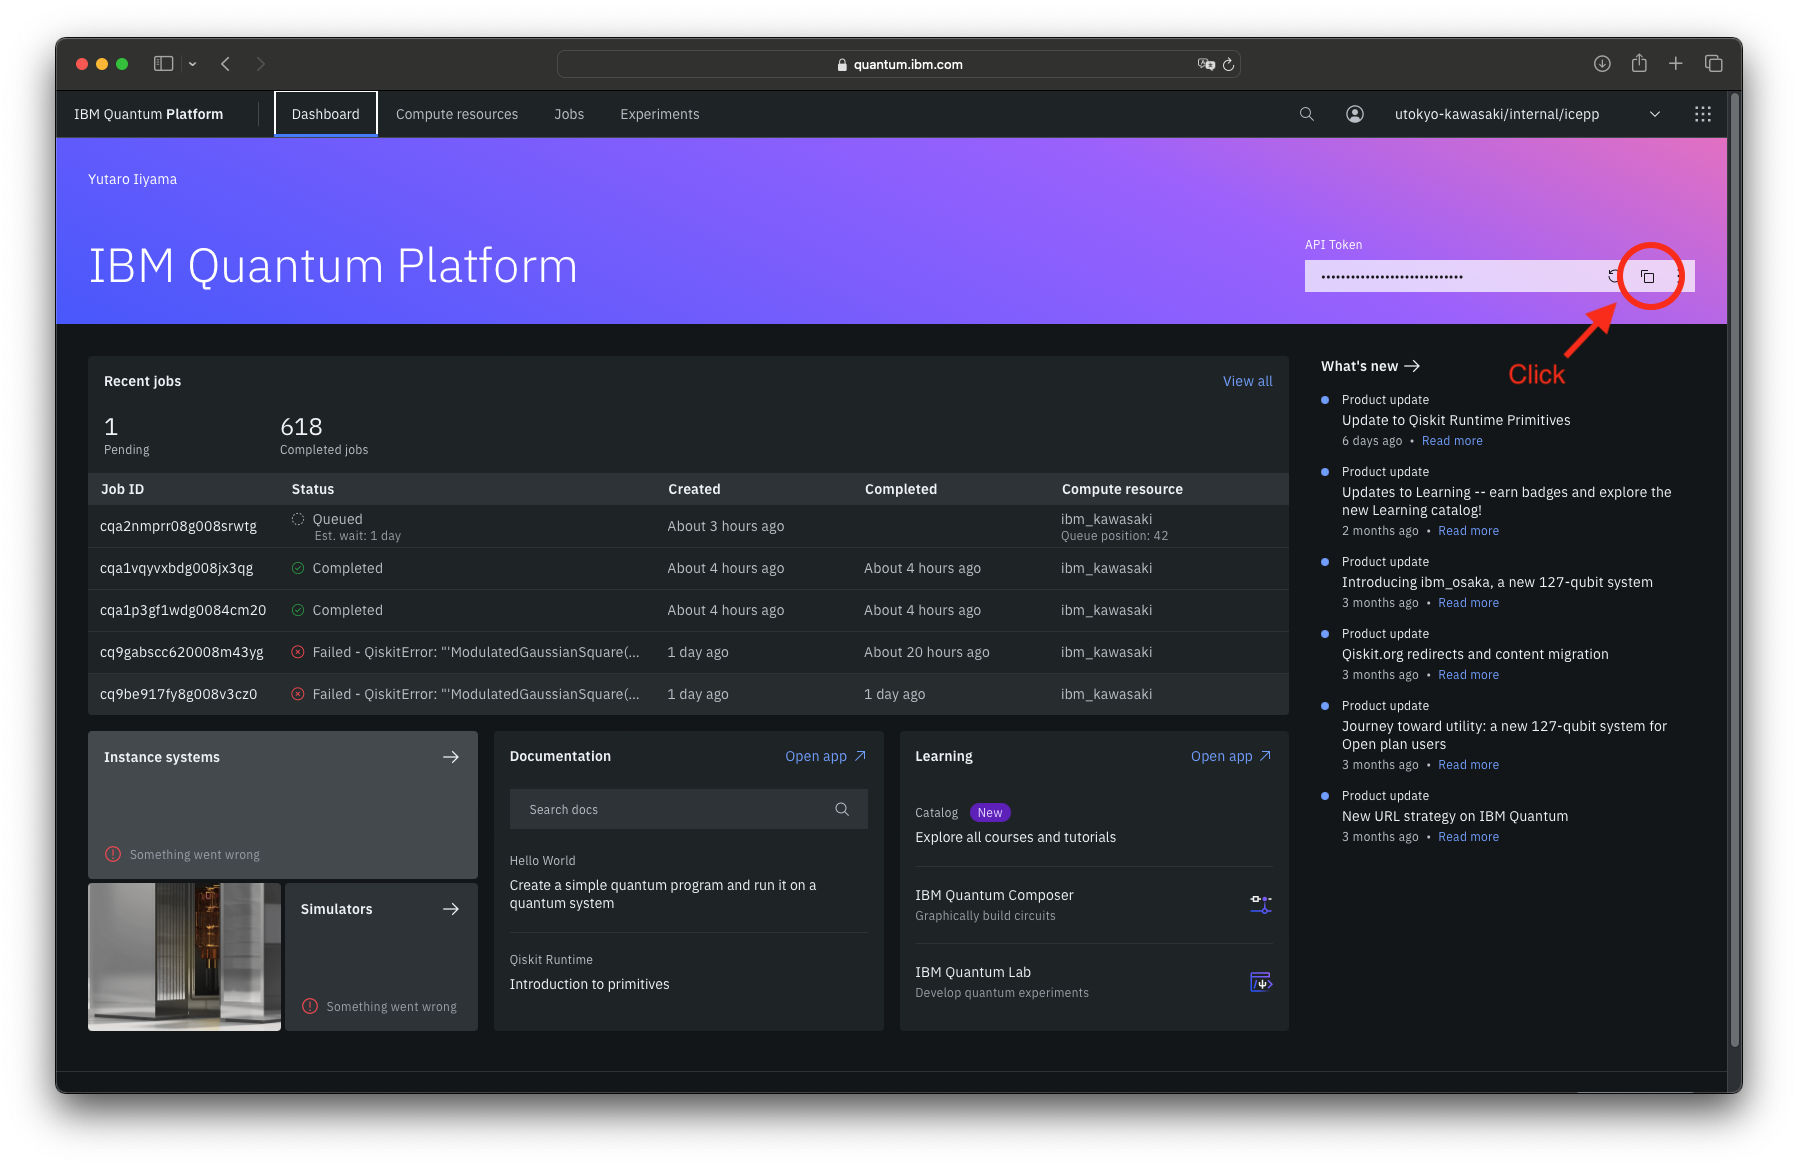
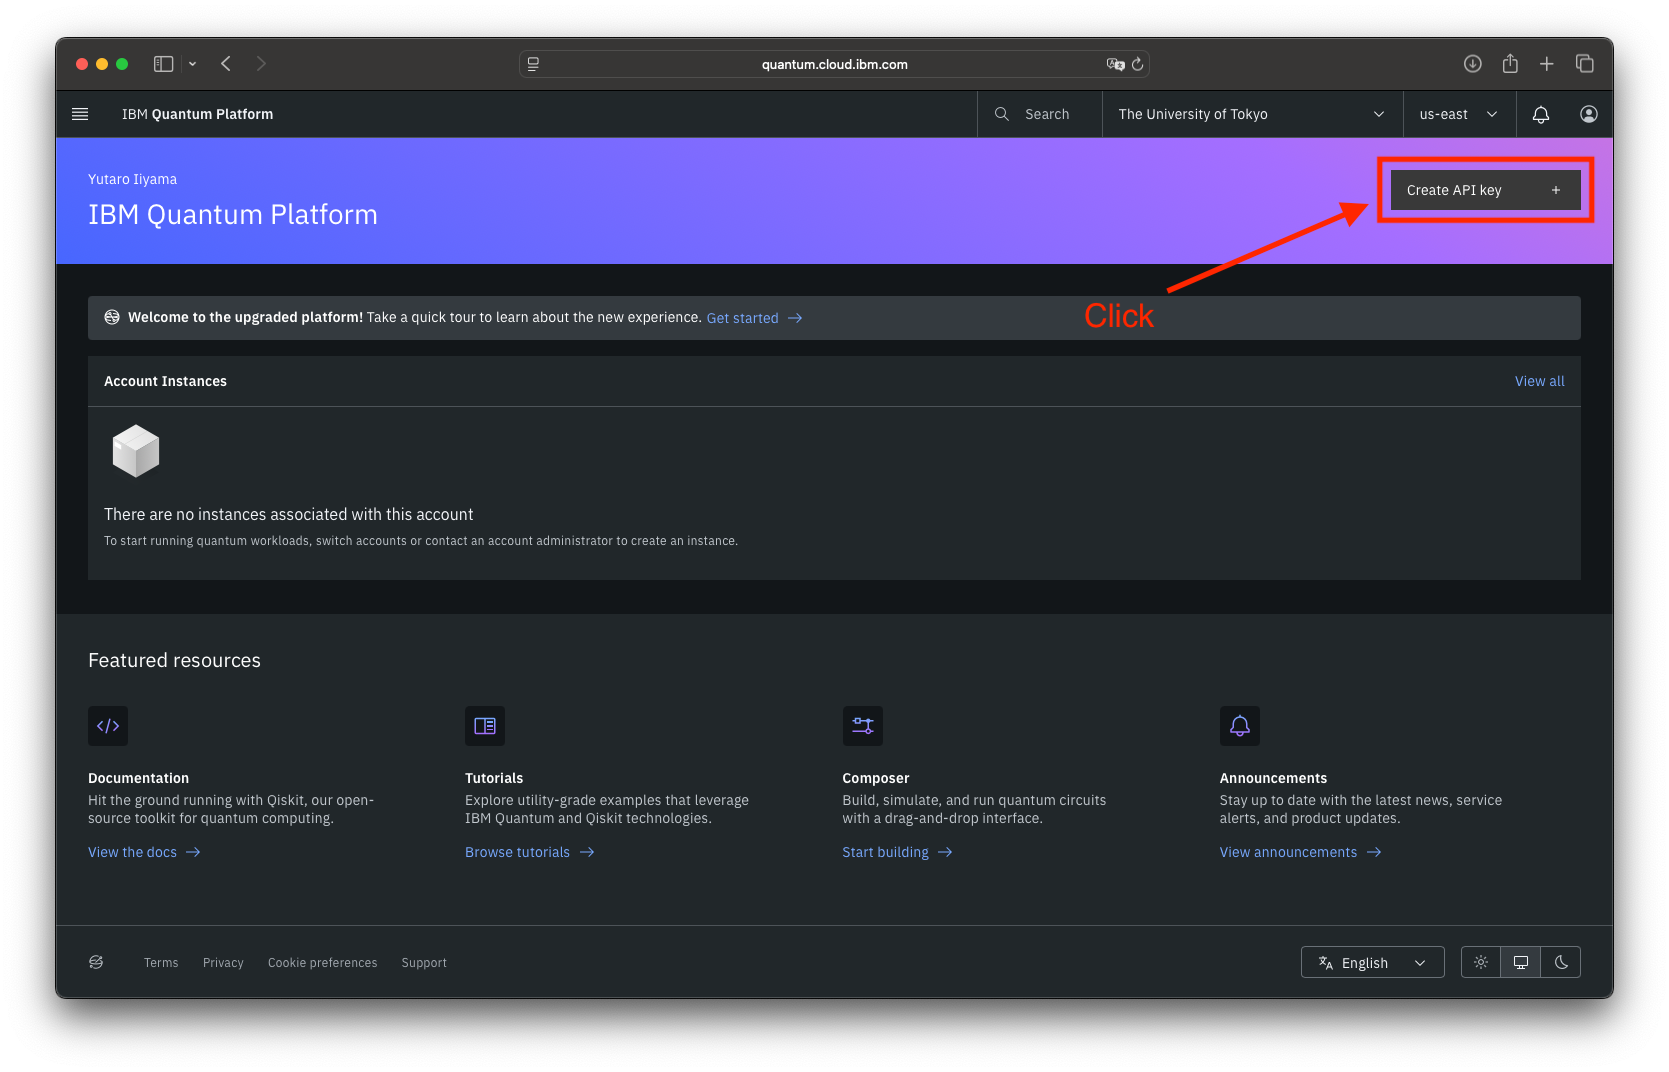
new platform

diff --git a/source/ja/prerequisites.md b/source/ja/prerequisites.md
@@ -5,21 +5,21 @@ jupytext:
     extension: .md
     format_name: myst
     format_version: 0.13
-    jupytext_version: 1.16.1
+    jupytext_version: 1.17.2
 kernelspec:
   display_name: Python 3 (ipykernel)
   language: python
   name: python3
 language_info:
+  name: python
+  version: 3.12.3
+  mimetype: text/x-python
   codemirror_mode:
     name: ipython
     version: 3
-  file_extension: .py
-  mimetype: text/x-python
-  name: python
-  nbconvert_exporter: python
   pygments_lexer: ipython3
-  version: 3.10.12
+  nbconvert_exporter: python
+  file_extension: .py
 ---
 
 +++ {"editable": true, "slideshow": {"slide_type": ""}}
@@ -38,20 +38,20 @@ local: true
 
 ### IBMidを取得し、IBM Quantumにログインする
 
-IBM Quantumを利用するには、IBMidというアカウントを作り、サービストークンを取得する必要があります。<a href="https://quantum.ibm.com/" target="_blank">IBM Quantum</a>ウェブサイトからIDを取得し、サービスにログインしてください。
+IBM Quantumを利用するには、IBMidというアカウントを作り、 API Keyを取得する必要があります。<a href="https://quantum.cloud.ibm.com/" target="_blank">IBM Quantum Platform</a>ウェブサイトからIDを取得し、サービスにログインしてください。
 
 (install_token)=
-### （ローカル環境）IBM Quantum APIトークンを取得し、Qiskit設定に保存する
+### （ローカル環境）APIキーを取得し、Qiskit設定に保存する
 
-IBM Quantum Lab（IBM Quantumウェブサイト上のJupyter Lab）でプログラムを実行する場合、以下の手続きは不要です。
+APIキーはユーザー名＋パスワードの代わりとしてPythonプログラム中でIBM Cloudに接続するために使用されます。キーをローカルディスクに書き込める環境にある場合は、設定ファイルに保存することで、以降の認証を自動化できます。
 
-ログインしたらホーム画面のYour API tokenという欄からトークンをコピーできます。
+IBM Quantum Platformにログインしたらホーム画面右上のCreate API keyという枠をクリックし、作成する新しいキーに適当な名前を付けてCreateを押してください。作成されたキーはその場でコピーもしくはダウンロードする必要があります（あとから取得することはできません）。
 ```{image} figs/ibmq_home.png
 :height: 400px
 :name: My Account
 ```
 
-アカウントごとに発行されるサービストークンは、ユーザー名＋パスワードの代わりとしてPythonプログラム中でIBMQに接続するために使用されます。ローカルディスクに書き込める環境にある場合は、一度トークンを設定ファイルに保存することで、以降の認証を自動化できます。下のコードセルの`__paste_your_token_here__`のところにIBM Quantumからコピーしたトークンを貼り付け、実行してください。
+コピーしたキーを下のコードセルの`__paste_your_api_key_here__`というところに貼り付け、実行してください。
 
 ```{code-cell} ipython3
 ---
@@ -62,7 +62,7 @@ tags: [raises-exception, remove-output]
 ---
 from qiskit_ibm_runtime import QiskitRuntimeService
 
-QiskitRuntimeService.save_account('__paste_your_token_here__')
+QiskitRuntimeService.save_account('__paste_your_api_key_here__')
 ```
 
 +++ {"editable": true, "slideshow": {"slide_type": ""}}
@@ -72,17 +72,17 @@ QiskitRuntimeService.save_account('__paste_your_token_here__')
 ```{code-block} python
 from qiskit_ibm_runtime import QiskitRuntimeService
 
-service = QiskitRuntimeService(channel='ibm_quantum')
+service = QiskitRuntimeService(channel='ibm_quantum_platform')
 ```
 
-のようになります。ちなみにIBM Quantum Labでは最初からトークンが保存されている状態なので、このコードで認証が行なえます。
+のようになります。
 
 ローカルディスクに書き込める環境でない場合（このワークブックをインタラクティブに使っている場合など）は、Pythonプログラムを実行するたびに（Jupyterのカーネルを再起動するたびに）手動で認証を行う必要があります。
 
 ```{code-block} python
 from qiskit_ibm_runtime import QiskitRuntimeService
 
-service = QiskitRuntimeService(channel='ibm_quantum', token='__paste_your_token_here__')
+service = QiskitRuntimeService(channel='ibm_quantum_platform', token='__paste_your_api_key_here__')
 ```
 
 ## ワークブックの使い方
@@ -118,5 +118,9 @@ service = QiskitRuntimeService(channel='ibm_quantum', token='__paste_your_token_
 ノートブックをローカルに実行するためには、Pythonバージョン3.10以上が必要です。また、`pip`を使って以下のパッケージをインストールする必要があります。
 
 ```{code-block}
-pip install qiskit qiskit-aer qiskit-ibm-runtime qiskit-experiments qiskit-machine-learning qiskit-optimization matplotlib pylatexenc pandas tabulate
+pip install qiskit qiskit-aer qiskit-ibm-runtime qiskit-experiments qiskit-optimization matplotlib pylatexenc pandas tabulate
+```
+
+```{code-cell} ipython3
+
 ```
